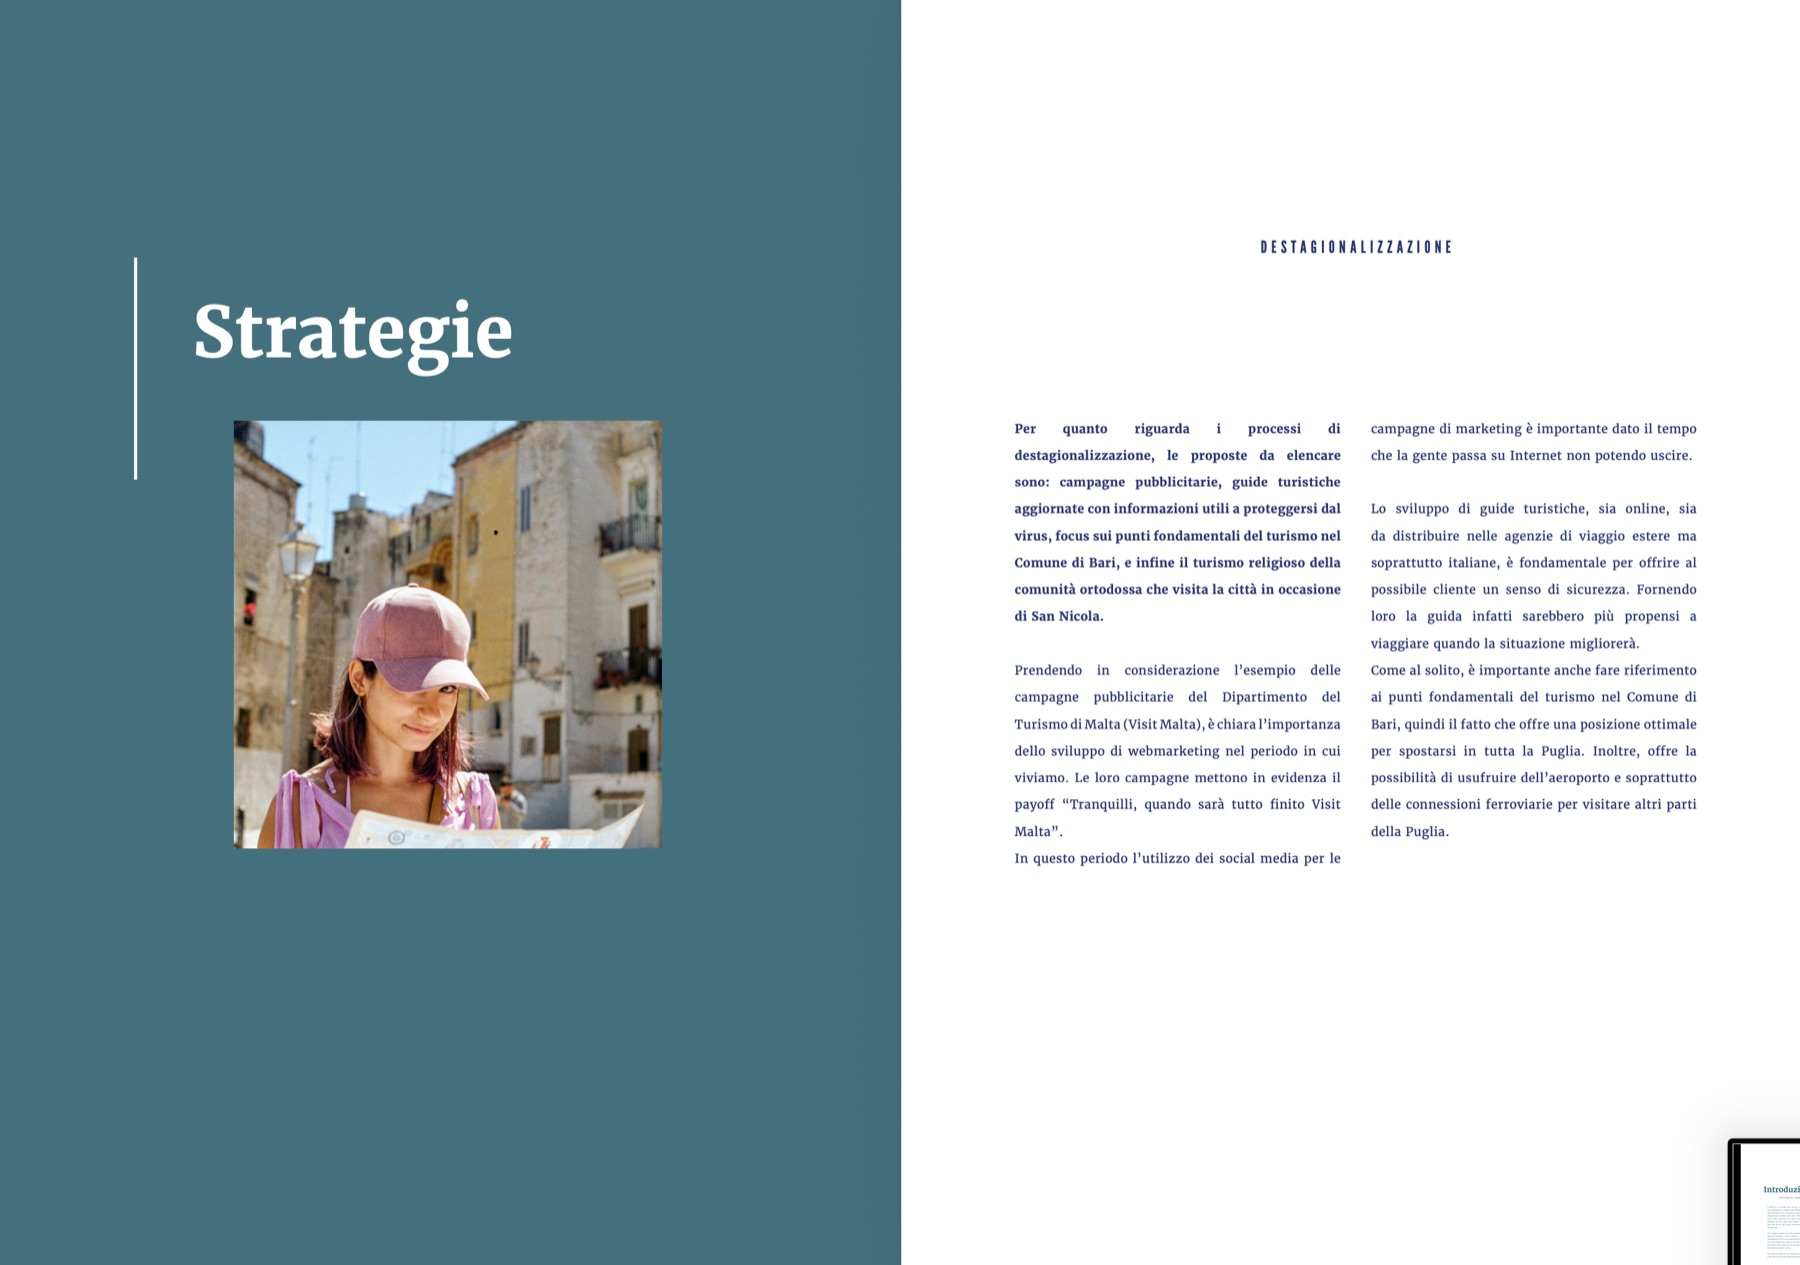
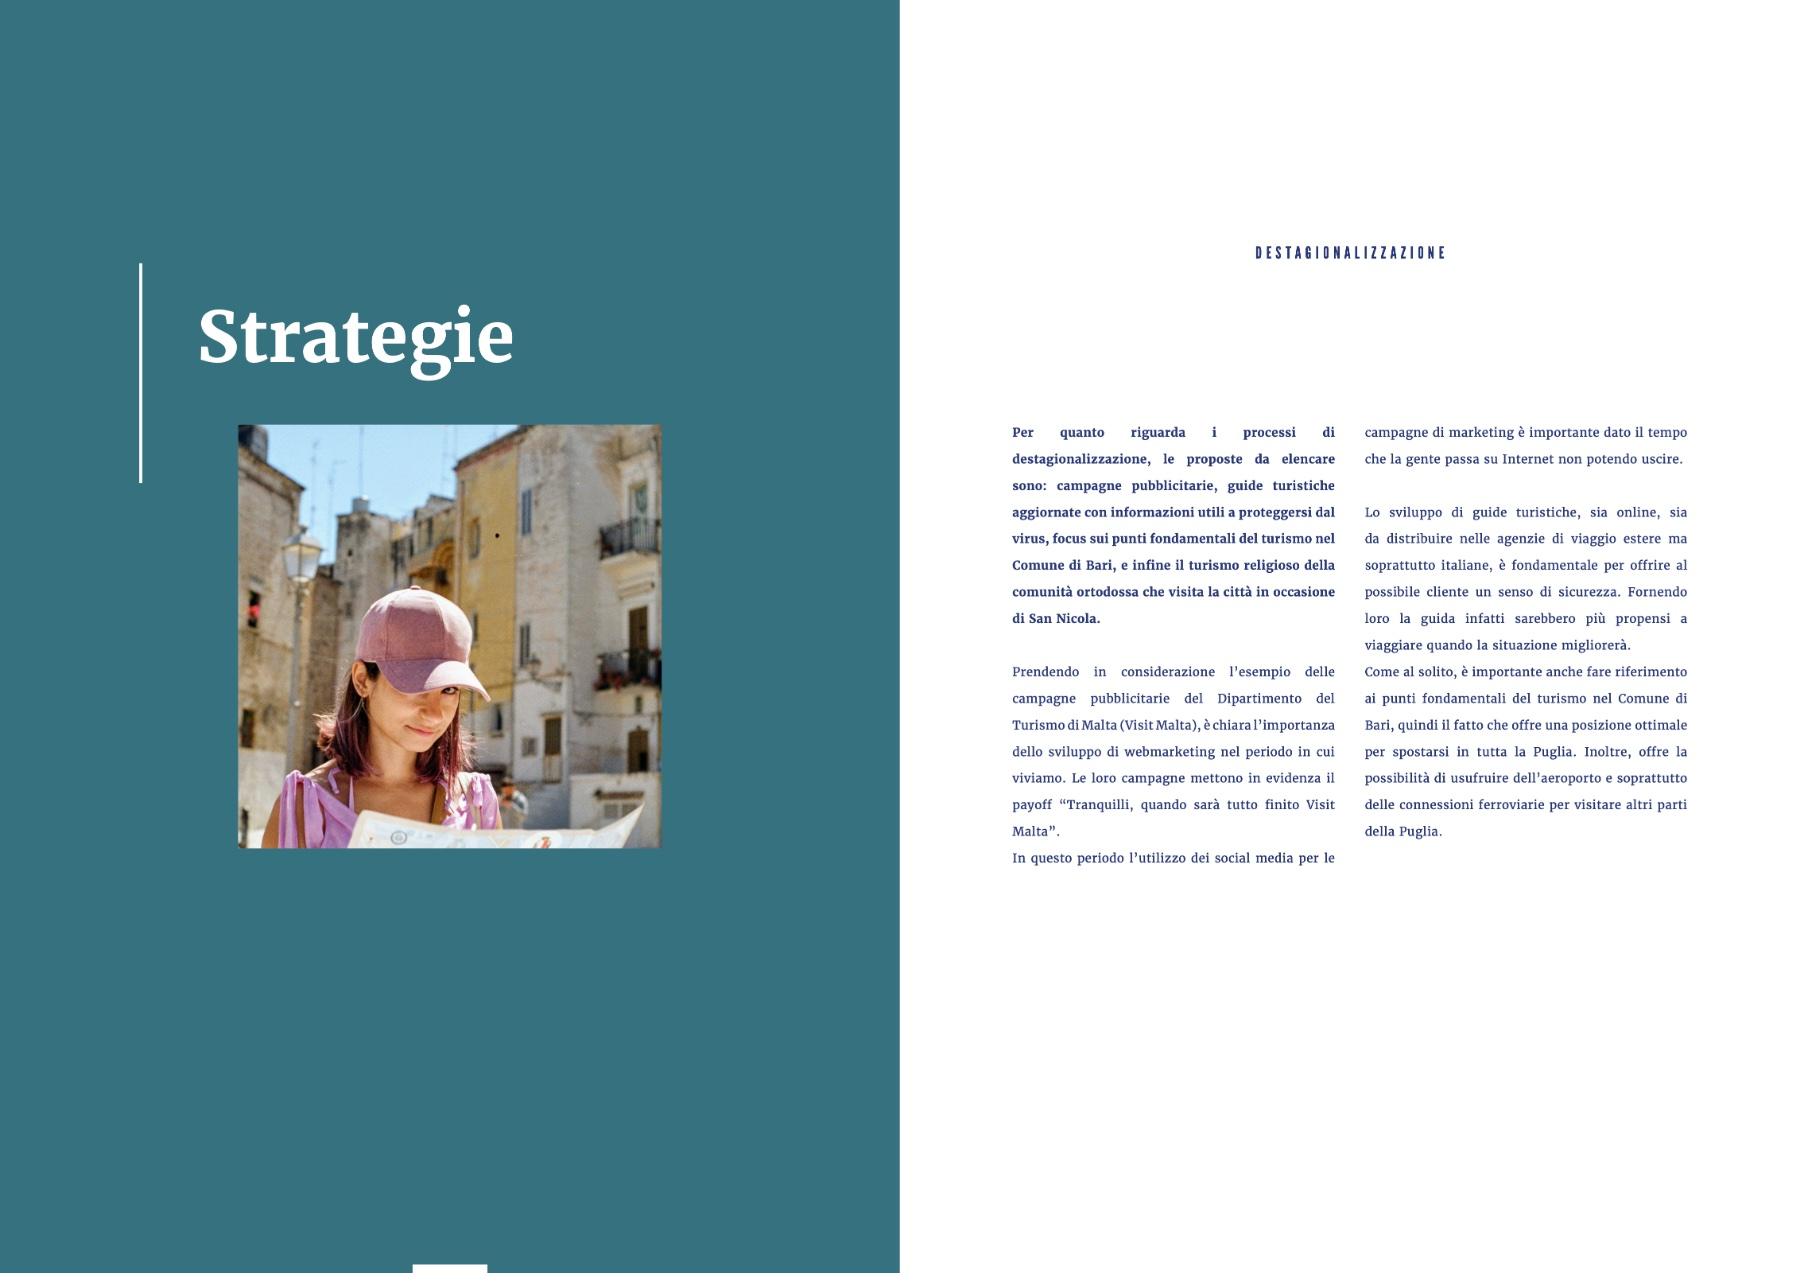
Turismo a Bari: booklet mockup and real PDF spread

diff --git a/index.html b/index.html
@@ -180,15 +180,14 @@
         <header class="project-head">
           <span class="project-num">06</span>
           <h3 class="project-title">Turismo <em>a Bari</em></h3>
-          <p class="project-meta">Editorial / Infographics / Report</p>
+          <p class="project-meta">Editorial / Infographics / Printed Booklet</p>
         </header>
         <div class="row">
-          <figure style="--r: 0.707"><img src="images/bari-cover.jpg" alt="Turismo a Bari report cover with aerial view of Bari" loading="lazy"><figcaption>Cover</figcaption></figure>
-          <figure style="--r: 1.42"><img src="images/bari-contents.jpg" alt="Turismo a Bari contents spread" loading="lazy"><figcaption>Contents</figcaption></figure>
+          <figure style="--r: 1.5"><img src="images/bari-mockup.jpg" alt="Turismo a Bari printed booklet mockup: covers and open spreads on a neutral surface" loading="lazy"><figcaption>Printed booklet — A4, 12 pages</figcaption></figure>
         </div>
         <div class="row">
-          <figure class="trim" style="--r: 1.42"><img src="images/bari-intro.jpg" alt="Turismo a Bari introduction spread" loading="lazy"><figcaption>Introduction</figcaption></figure>
-          <figure class="trim" style="--r: 1.42"><img src="images/bari-strategies.jpg" alt="Turismo a Bari strategies spread" loading="lazy"><figcaption>Strategies</figcaption></figure>
+          <figure style="--r: 0.707"><img src="images/bari-cover.jpg" alt="Turismo a Bari report cover with aerial view of Bari" loading="lazy"><figcaption>Cover</figcaption></figure>
+          <figure style="--r: 1.414"><img src="images/bari-strategies.jpg" alt="Turismo a Bari strategies spread" loading="lazy"><figcaption>Strategies</figcaption></figure>
         </div>
       </article>
     </section>
@@ -261,7 +260,8 @@
       "Concept · Social Media / Illustration / Seasonal Launch": "Concept · Social Media / Illustrazione / Lancio stagionale",
       "Solo project · Advertising / Outdoor Campaign": "Progetto personale · Pubblicità / Campagna outdoor",
       "ZN Consulting · Event Identity / Stage Screens / App": "ZN Consulting · Identità per eventi / Schermi del palco / App",
-      "Editorial / Infographics / Report": "Editoria / Infografiche / Report",
+      "Editorial / Infographics / Printed Booklet": "Editoria / Infografiche / Opuscolo stampato",
+      "Printed booklet — A4, 12 pages": "Opuscolo stampato — A4, 12 pagine",
       "Menu — cover & inside": "Menu — copertina e interno",
       "Feed mockup — autumn 2026 launch": "Mockup del feed — lancio autunno 2026",
       "Launch event": "Evento di lancio", "Seasonal menu": "Menu stagionale",
